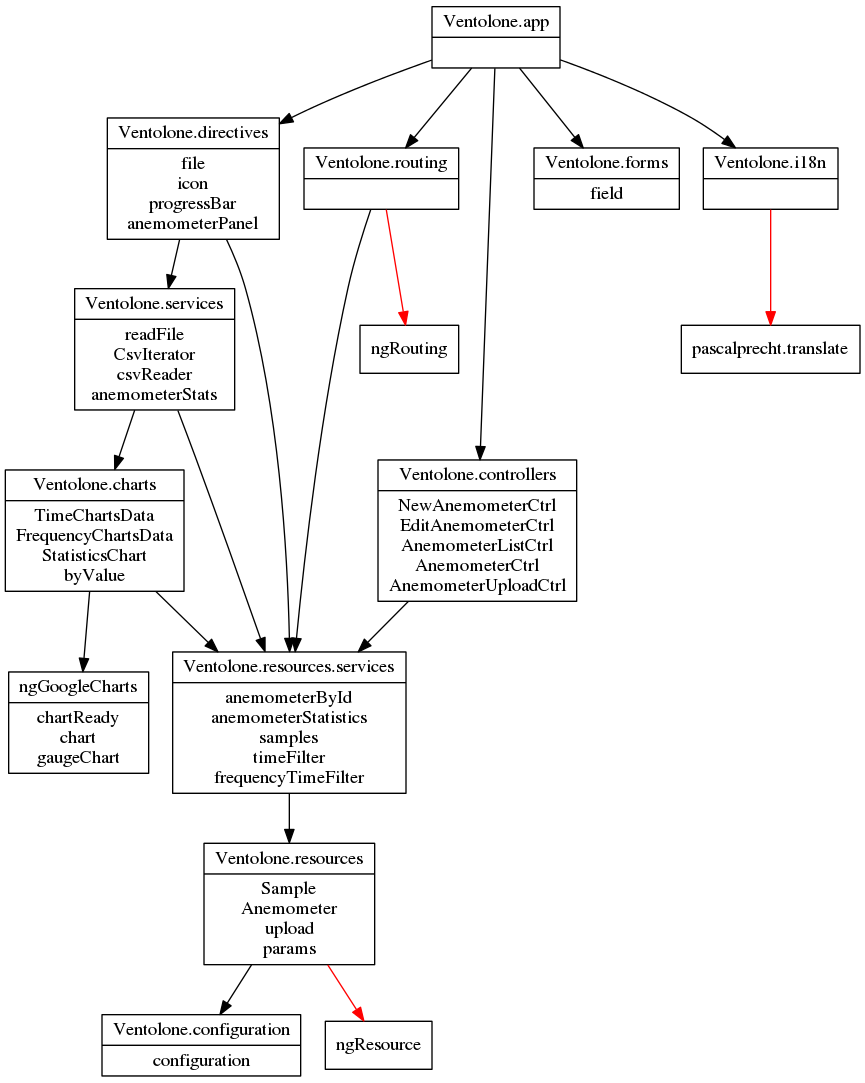
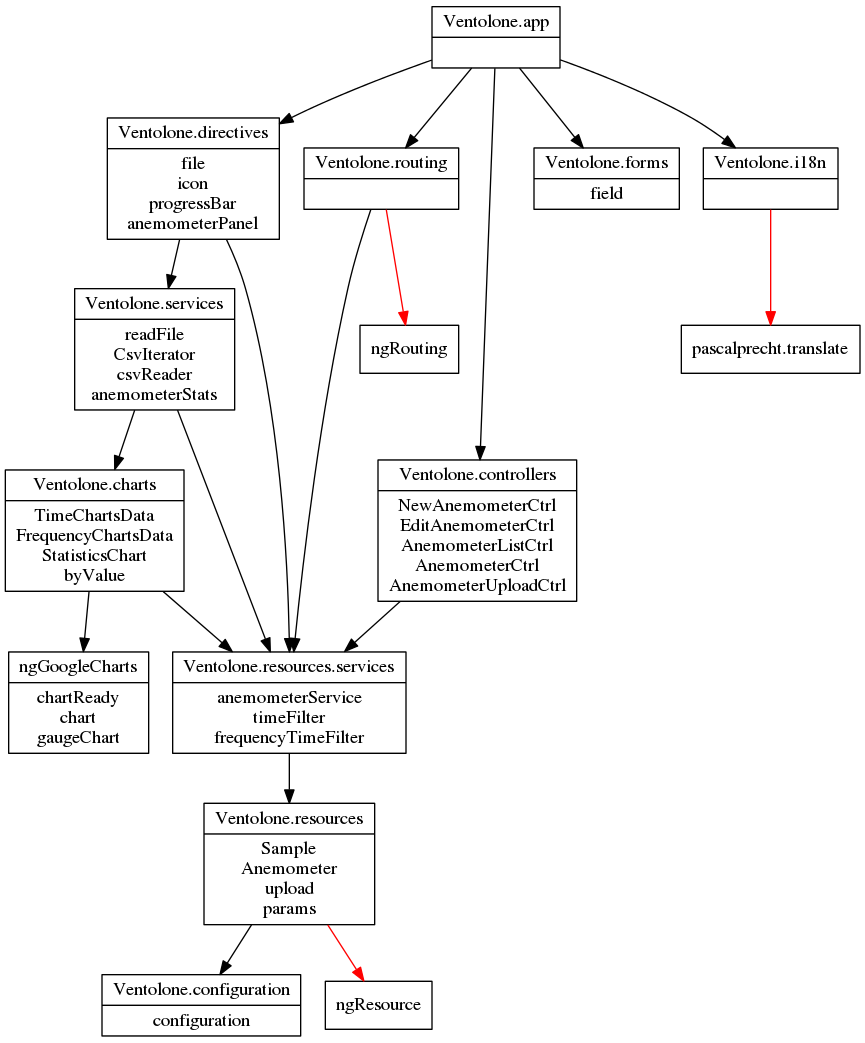
refactoring

diff --git a/test/resources-service.js b/test/resources-service.js
@@ -1,19 +1,118 @@
 describe('Ventolone.resources module', function() {
 
   beforeEach(module('Ventolone.resources.services'))
+  beforeEach(module(resourceMocks))
 
-  beforeEach(module(function($provide) {
-    $provide.factory('Anemometer', function($q) {
-      return {
-        get: function(obj) {
+  describe('anemometerService', function() {
+    var anemometerService
+
+    beforeEach(inject(function(_anemometerService_) {
+      anemometerService = _anemometerService_
+    }))
+
+    describe('#findById', function() {
+      var findById
+      beforeEach(function() {
+        findById = anemometerService.findById.bind(anemometerService)
+      })
+
+      it('should be a function', function() {
+        Should(findById).be.a.Function
+      })
+      it('should always return a promise', function() {
+        assertPromise(findById(12))
+        assertPromise(findById(null))
+      })
+      it('should return a rejected promise if called with null parameter', function() {
+        var a = findById(null)
+        a.then(assertFail('Resolved deferred'), angular.noop)
+      })
+      it('should return a promise of a resource', inject(function(Anemometer) {
+        var a = findById(12)
+        Anemometer.$deferred.resolve({})
+        a.then(function(val) {
+          Should(val).not.be.equal(null)
+          Should(val).be.a.Object
+        }, assertFail('Rejected deferred'))
+      }))
+    })
+
+    describe('#statistics', function() {
+      var statistics
+
+      beforeEach(function() {
+        statistics = anemometerService.statistics.bind(anemometerService)
+      })
+
+      it('should be a function', function() {
+        Should(statistics).be.a.Function
+      })
+      it('should always return a promise', function() {
+        assertPromise(statistics(12, {}))
+        assertPromise(statistics(null, {}))
+      })
+      it('should return a rejected promise if called with null parameter', function() {
+        var s = statistics(null, {})
+        s.then(assertFail('Resolved deferred'), angular.noop)
+      })
+      it('should return a promise of a resource', inject(function(Sample) {
+        var s = statistics(12, {})
+        Sample.$deferred.resolve({})
+        s.then(function(val) {
+          Should(val).not.be.equal(null)
+          Should(val).be.a.Object
+        }, assertFail('Rejected deferred'))
+      }))
+    })
+
+    describe('#samples', function() {
+      var samples
+
+      beforeEach(function() {
+        samples = anemometerService.samples.bind(anemometerService)
+      })
+
+      it('should be a function', function() {
+        Should(samples).be.a.Function
+      })
+      it('should always return a promise', function() {
+        assertPromise(samples(12, {}))
+        assertPromise(samples(null, {}))
+      })
+      it('should return a rejected promise if called with null parameter', function() {
+        var s = samples(null, {})
+        s.then(assertFail('Resolved deferred'), angular.noop)
+      })
+      it('should return a promise of a resource', inject(function(Sample) {
+        var s = samples(12, {})
+        Sample.$deferred.resolve({})
+        s.then(function(val) {
+          Should(val).not.be.equal(null)
+          Should(val).be.a.Object
+        }, assertFail('Rejected deferred'))
+      }))
+    })
+  })
+
+  function resourceMocks($provide) {
+    $provide.factory('Anemometer', mockMethods(['get']))
+    $provide.factory('Sample', mockMethods(['statistics', 'time']))
+  }
+
+  function mockMethods(methods) {
+    return function($q) {
+      var resourceMock = {}
+      angular.forEach(methods, function(method) {
+        resourceMock[method] = function(obj) {
           this.$deferred = $q.defer()
           return {
             $promise: this.$deferred.promise
           }
         }
-      }
-    })
-  }))
+      })
+      return resourceMock
+    }
+  }
 
   function assertPromise(p) {
     Should(p['then']).be.a.Function
@@ -21,36 +120,9 @@ describe('Ventolone.resources module', function() {
     Should(p['finally']).be.a.Function
   }
 
-  function assertFail (msg) {
-    return function () {
+  function assertFail(msg) {
+    return function() {
       throw new Error(msg)
     }
   }
-
-  describe('#anemometerById', function() {
-    it('should be defined and a function', inject(function(anemometerById) {
-      Should(anemometerById).be.a.Function
-    }))
-
-    it('should return a promise', inject(function(anemometerById) {
-      var a = anemometerById(12)
-      assertPromise(a)
-    }))
-
-    it('should return a rejected promise if called with null as parameter', inject(function(anemometerById) {
-      var a = anemometerById(null)
-      Should(a).not.equal(null)
-      a.then(assertFail('Resolved deferred'), angular.noop)
-    }))
-
-    it('should return a promise of a resource', inject(function(anemometerById, Anemometer) {
-      var a = anemometerById(12)
-      Should(a).not.be.equal(null)
-      Anemometer.$deferred.resolve({})
-      a.then(function(val) {
-        Should(val).not.be.equal(null)
-        Should(val).be.a.Object
-      }, assertFail('Rejected deferred'))
-    }))
-  })
 })

diff --git a/app/src/resources-services.js b/app/src/resources-services.js
@@ -1,43 +1,44 @@
 (function(module) {
 
   module
-    .factory('anemometerById', function(Anemometer, $q) {
-      return function anemometerById(anemometerId) {
-        if (!anemometerId){
-          var deferred = $q.defer()
-          deferred.reject()
-          return deferred.promise
-        }
+    .factory('anemometerService', function(Anemometer, Sample, $q) {
+      return {
+        findById: function findById(id) {
+          if (!id) {
+            var deferred = $q.defer()
+            deferred.reject()
+            return deferred.promise
+          }
 
-        return Anemometer.get({
-          id: anemometerId
-        }).$promise
-      };
-    })
-    .factory('anemometerStatistics', function(Sample, timeFilter) {
-      return function anemometerStatistics(anemometerId, params, cb) {
-        var dataFrequency = params.dataFrequency,
-          group_level = (dataFrequency - 1) * 2 + 1
+          return Anemometer.get({
+            id: id
+          }).$promise
+        },
+        statistics: function statistics(id, params) {
+          var dataFrequency = params.dataFrequency,
+            group_level = (dataFrequency - 1) * 2 + 1
 
-        return Sample.statistics({
-          startkey: key(anemometerId, dataFrequency, params.from),
-          endkey: key(anemometerId, dataFrequency, params.to, true)
-        }, cb)
-      };
-    })
-    .factory('samples', function(Sample, timeFilter, $q) {
-      return function samples(anemometer, timeSpan, dataFrequency) {
-        if(timeSpan.to < timeSpan.from){
-          var deferred = $q.defer()
-          deferred.reject()
-          return deferred.promise
+          return Sample.statistics({
+            startkey: key(id, dataFrequency, params.from),
+            endkey: key(id, dataFrequency, params.to, true)
+          }).$promise
+        },
+        samples: function samples(id, params) {
+          var timeSpan = params.timeSpan || {},
+            dataFrequency = params.dataFrequency;
+
+          if (timeSpan.to < timeSpan.from) {
+            var deferred = $q.defer()
+            deferred.reject()
+            return deferred.promise
+          }
+          return Sample.time({
+            group_level: dataFrequency,
+            startkey: key(id, dataFrequency, timeSpan.from),
+            endkey: key(id, dataFrequency, timeSpan.to, true)
+          }).$promise
         }
-        return Sample.time({
-          group_level: dataFrequency,
-          startkey: key(anemometer._id, dataFrequency, timeSpan.from),
-          endkey: key(anemometer._id, dataFrequency, timeSpan.to, true)
-        }).$promise
-      };
+      }
     })
     .constant('timeFilter', timeFilter)
     .constant('frequencyTimeFilter', function frequencyTimeFilter(dataFrequency, date, val) {

diff --git a/app/src/services.js b/app/src/services.js
@@ -56,25 +56,26 @@ angular.module('Ventolone.services', [
       return new CsvIterator(file)
     }
   })
-  .factory('anemometerStats', function(StatisticsChart, anemometerStatistics, $q) {
+  .factory('anemometerStats', function(StatisticsChart, anemometerService, $q) {
     return function anemometerStats(anemometer, params) {
-      var deferred = $q.defer()    
-      anemometerStatistics(anemometer._id, params, function(statistics) {
-        if (statistics.time) {
-          StatisticsChart(statistics, anemometer).then(function(stats) {
-            statistics.time.min = new Date(statistics.time.min * 1000)
-            statistics.time.max = new Date(statistics.time.max * 1000)
-            anemometer.statistics = {
-              chart: stats,
-              data: statistics
-            }
-            deferred.resolve()
-          })
-        }
-        else{
+      var deferred = $q.defer()
+      anemometerService
+        .statistics(anemometer._id, params)
+        .then(function(statistics) {
+          if (statistics.time) {
+            StatisticsChart(statistics, anemometer).then(function(stats) {
+              statistics.time.min = new Date(statistics.time.min * 1000)
+              statistics.time.max = new Date(statistics.time.max * 1000)
+              anemometer.statistics = {
+                chart: stats,
+                data: statistics
+              }
+              deferred.resolve()
+            })
+          } else {
             deferred.reject()
-        }
-      })
+          }
+        })
       return deferred.promise
     }
   })

diff --git a/app/src/controllers.js b/app/src/controllers.js
@@ -32,7 +32,7 @@ angular.module('Ventolone.controllers', [
       })
     }
   })
-  .controller('AnemometerCtrl', function($scope, anemometer, samples, Sample, $q, $interpolate, $filter, params, TimeChartsData, timeFilter, frequencyTimeFilter, FrequencyChartsData) {
+  .controller('AnemometerCtrl', function($scope, anemometer, anemometerService, Sample, $q, $interpolate, $filter, params, TimeChartsData, timeFilter, frequencyTimeFilter, FrequencyChartsData) {
     $scope.anemometer = anemometer
 
     params.then(function(p) {
@@ -67,7 +67,7 @@ angular.module('Ventolone.controllers', [
       $scope.showOverlay = true
       var dataFrequency = $scope.dataFrequency
       if (dataFrequency && anemometer._id) {
-        TimeChartsData(samples(anemometer, $scope.timeSpan, $scope.dataFrequency), tooltip).then(function(data) {
+        TimeChartsData(anemometerService.samples(anemometer._id, $scope), tooltip).then(function(data) {
           $scope.data = data.speed
           $scope.dataBattery = data.battery
           $scope.showOverlay = false

diff --git a/app/src/routing.js b/app/src/routing.js
@@ -4,9 +4,9 @@ angular.module('Ventolone.routing', [
 ])
   .config(function(routingProvider) {
     var resolve = {
-      anemometer: function(anemometerById, $route, $rootScope, $location, $q) {
+      anemometer: function(anemometerService, $route, $rootScope, $location, $q) {
         var anemometerId = $route.current.pathParams.anemometerId
-        return $q.when(anemometerDeferred = anemometerById(anemometerId)).then(function(anemometer) {
+        return $q.when(anemometerDeferred = anemometerService.findById(anemometerId)).then(function(anemometer) {
           $rootScope.anemometer = anemometer
           return anemometer
         }, function() {
